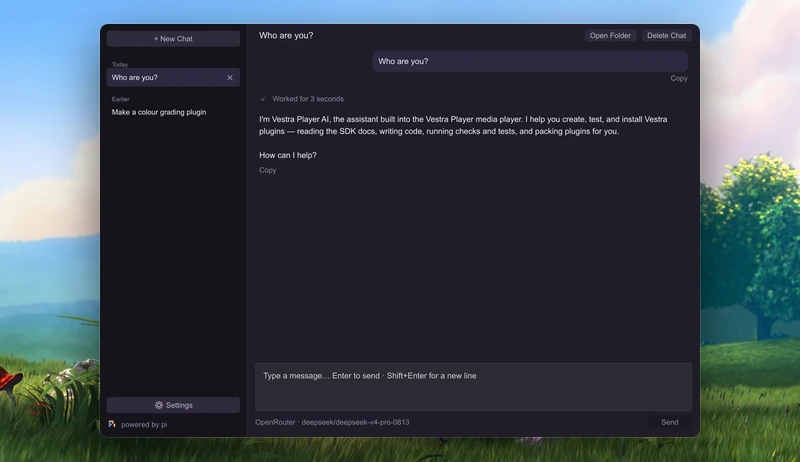
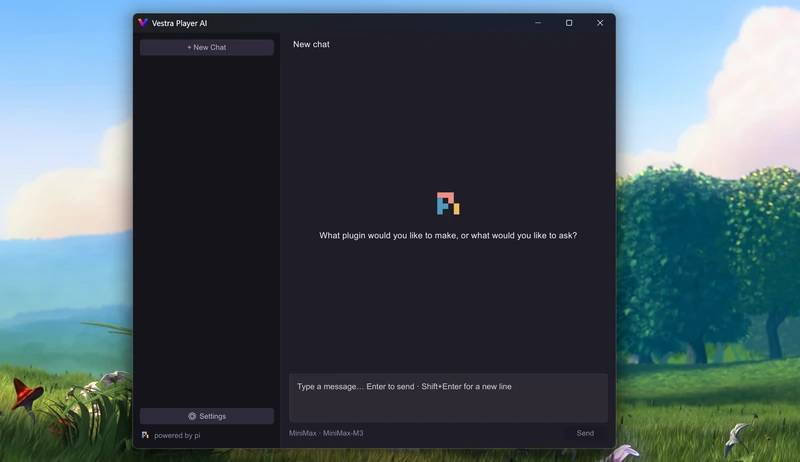
README: restore the previous Vestra Player AI screenshot [skip ci]
Claude-Session: https://claude.ai/code/session_01QBEH3Ymiq4F8T2w4rV6vnm

diff --git a/README.md b/README.md
@@ -28,7 +28,7 @@ Vestra Player is an open-source video player for macOS and Windows. It aims for 
   </tr>
   <tr>
     <td><a href=".github/readme/seek-preview.webp"><img src=".github/readme/seek-preview.webp" alt="A thumbnail preview above the seek bar"></a><br><b>Seek-bar preview</b>: a thumbnail of the frame under the pointer as it moves along the bar.</td>
-    <td><a href=".github/readme/ai-workshop.webp"><img src=".github/readme/ai-workshop.webp" alt="Vestra Player AI window with a short chat (&quot;Who are you?&quot;) over a playing video"></a><br><b>Vestra Player AI</b> (experimental): describe a plugin and it writes, checks and tests it.</td>
+    <td><a href=".github/readme/ai-workshop.webp"><img src=".github/readme/ai-workshop.webp" alt="Vestra Player AI window, a new chat, over a playing video"></a><br><b>Vestra Player AI</b> (experimental): describe a plugin and it writes, checks and tests it.</td>
   </tr>
 </table>
 
